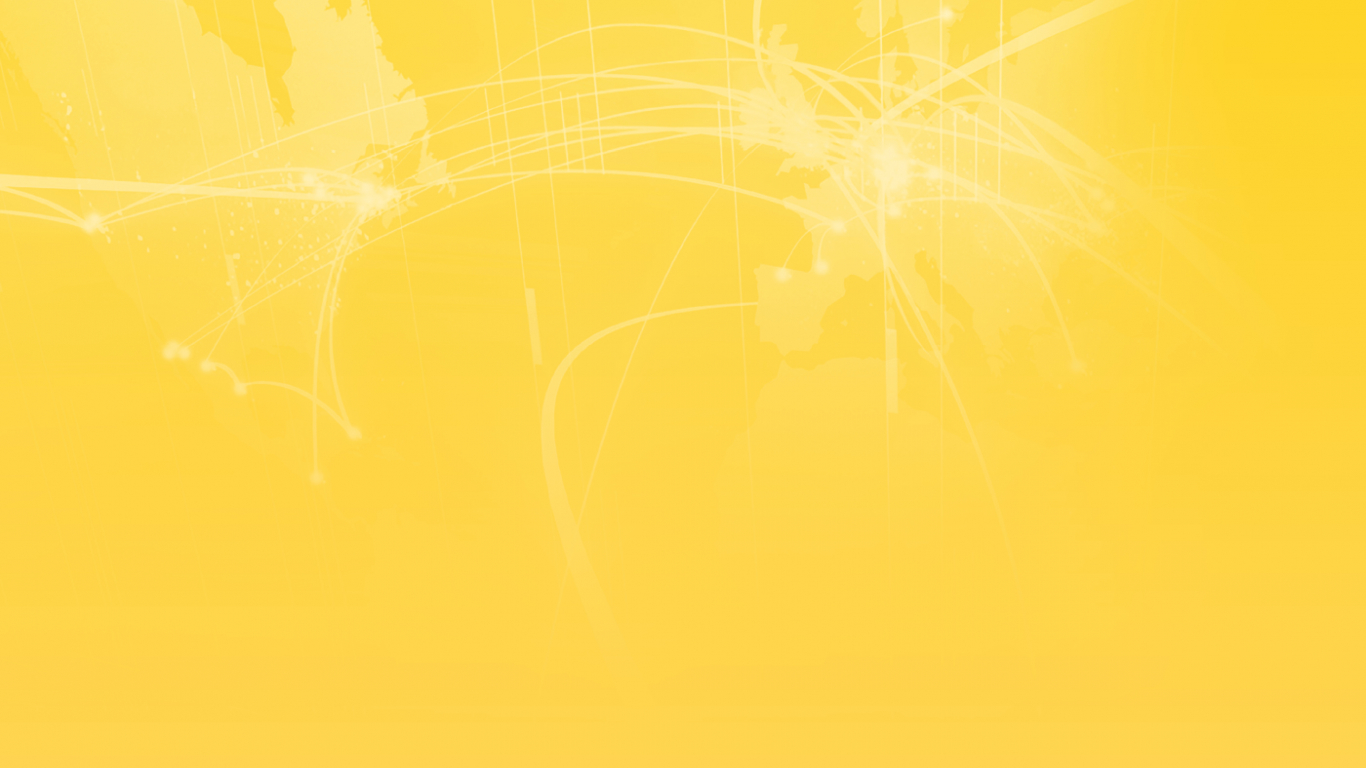
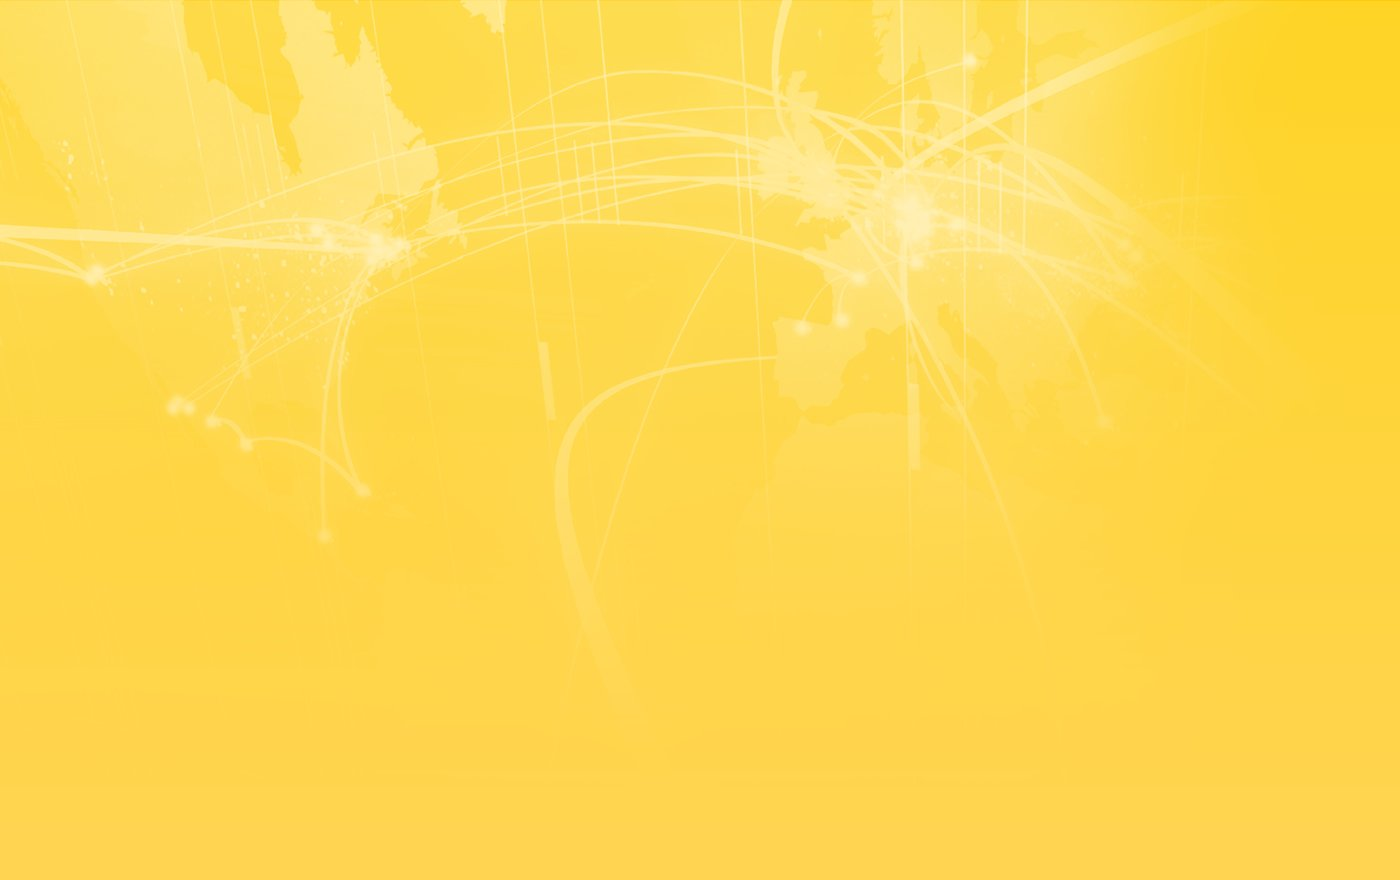
more stying, positioning in activities_google page

diff --git a/src/main/resources/templates/Trip/activities_google.html b/src/main/resources/templates/Trip/activities_google.html
@@ -123,13 +123,13 @@
             <div id="map"></div>
         </div>
 
-        <div id="venueDiv" class="col-lg-6 col-md-12" data-bs-spy="scroll" data-bs-offset="0" tabindex="0">
+        <div id="venueDiv" class="col-lg-6 col-md-12" data-bs-spy="scroll" data-bs-offset="0" tabindex="0" style="overflow-x: hidden">
             <!--            <div class="form-group">-->
             <!--                <input type="text" class="form-control float-left" id="venue" placeholder="Restaurants">-->
             <!--                <button type="button" class="btn btn-primary btn-sm" id="venueButton">Search Venue</button>-->
             <!--            </div>-->
             <div id="clickedPlace"></div>
-            <div id="venueList" style="justify-content: space-evenly">
+            <div id="venueList">
 
             </div>
         </div>

diff --git a/src/main/resources/static/css/register.css b/src/main/resources/static/css/register.css
@@ -232,8 +232,10 @@ font-size: smaller;
     margin-top: 40px;
 }
 #activities_google-body {
-    background-image: url("../imgs/tt_yellow_background.jpg");
+    background: linear-gradient(white, transparent, transparent, transparent, transparent, transparent, transparent), url("../imgs/tt_yellow_background.jpg") center;
+    background-size: cover;
 }
+
 /*#addPicture{*/
 /*    background-color: dodgerblue;*/
 /*    padding: 8px;*/

diff --git a/src/main/resources/static/css/activities.css b/src/main/resources/static/css/activities.css
@@ -89,8 +89,7 @@
     align-items: center;
     justify-content: space-evenly;
     white-space: normal;
-
-
+    border-radius: 10px;
 }
 
 .venueCard img{
@@ -198,8 +197,12 @@ html, body, .container{
 }
 #venueDiv{
     overflow-y:auto;
-    height: 713px;
+    height: 665px;
 
+}
+::-webkit-scrollbar {
+    width: 0;
+    background: transparent;
 }
 
 
